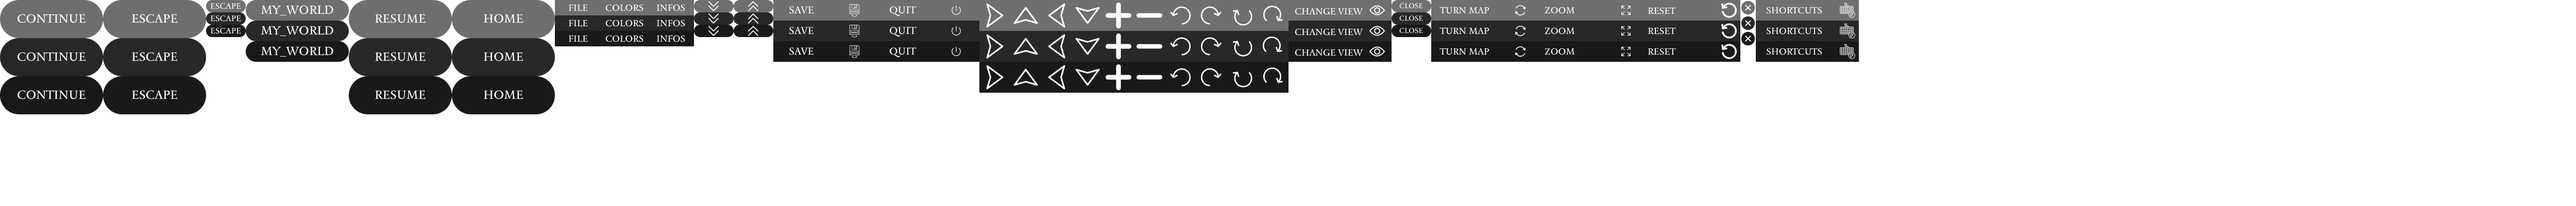
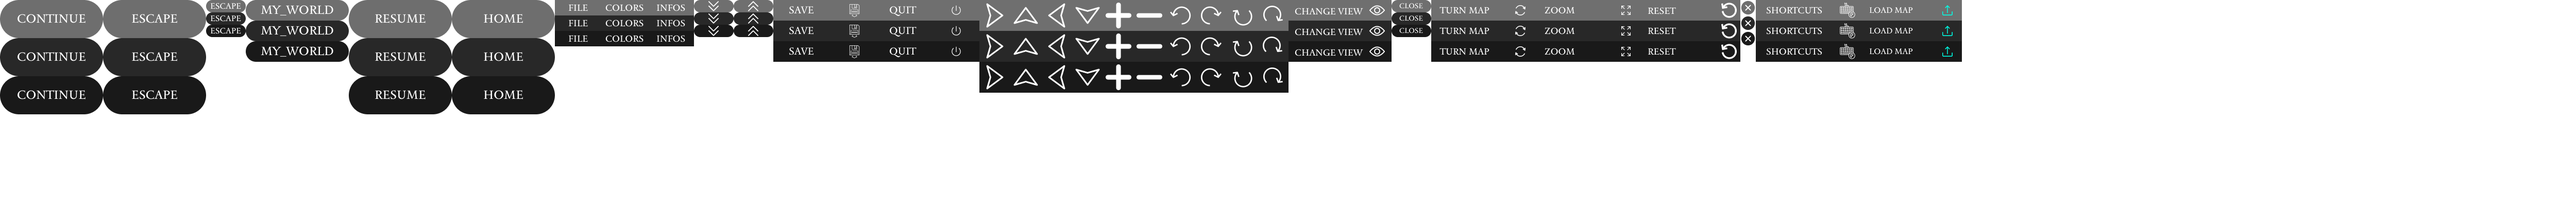
button for load added

Changed region(s): [[0.7176, 0.0, 0.78, 0.3]]

diff --git a/sources/func_button.c b/sources/func_button.c
@@ -18,7 +18,7 @@ void fifth_part_button(window *wndw, options *opt, cursor *c, maps *m)
     opt->ar_btn[CLOSE_VIEW].params = 0;
     opt->ar_btn[CLOSE_VIEW].screen = 0;
     factory_button(opt, &open_turn, (sfIntRect){2778, 0, 200, 40},
-        (sfVector2f){140, 360});
+        (sfVector2f){140, 370});
     opt->ar_btn[OPEN_TURN].params = 0;
     opt->ar_btn[OPEN_TURN].screen = 0;
     factory_button(opt, &turn_left, (sfIntRect){2261, 0, 60, 60},
@@ -31,7 +31,7 @@ void fifth_part_button(window *wndw, options *opt, cursor *c, maps *m)
 void fourth_part_button(window *wndw, options *opt, cursor *c, maps *m)
 {
     factory_button(opt, &open_view, (sfIntRect){2501, 0, 200, 40},
-        (sfVector2f){140, 300});
+        (sfVector2f){140, 310});
     opt->ar_btn[OPEN_CHG_VIEW].params = 0;
     opt->ar_btn[OPEN_CHG_VIEW].screen = 0;
     factory_button(opt, &go_left, (sfIntRect){2021, 0, 60, 60},
@@ -55,8 +55,8 @@ void third_part_button(window *wndw, options *opt, cursor *c, maps *m)
         (sfVector2f){201, 62});
     opt->ar_btn[OPEN_PARAMS].params = 1;
     opt->ar_btn[OPEN_PARAMS].screen = 0;
-    factory_button(opt, &go_home, (sfIntRect) {1501, 0, 200, 40},
-                   (sfVector2f) {140, 200});
+    factory_button(opt, &start_save, (sfIntRect) {1501, 0, 200, 40},
+                   (sfVector2f) {140, 190});
     opt->ar_btn[SAVE_FILE].params = 0;
     opt->ar_btn[SAVE_FILE].screen = 0;
     factory_button(opt, &quit_button, (sfIntRect) {1701, 0, 200, 40},
@@ -94,7 +94,7 @@ void second_part_button(window *wndw, options *opt, cursor *c, maps *m)
 void linked_button(options *opt, window *wndw, cursor *c, maps *m)
 {
     opt->t = sfTexture_createFromFile("ressources/buttons.png", NULL);
-    opt->ar_btn = malloc(sizeof(button) * 30);
+    opt->ar_btn = malloc(sizeof(button) * 31);
     opt->len_button = 0;
     factory_button(opt, &continue_button, (sfIntRect){0, 0, 200, 74},
                    (sfVector2f){865, 700});

diff --git a/sources/part_func_button.c b/sources/part_func_button.c
@@ -7,10 +7,18 @@
 
 #include "../includes/map.h"
 
+void nine_part_button(window *wndw, options *opt, cursor *c, maps *m)
+{
+    factory_button(opt, &start_load, (sfIntRect){3608, 0, 200, 40},
+        (sfVector2f){140, 250});
+    opt->ar_btn[LOAD_MAP].params = 0;
+    opt->ar_btn[LOAD_MAP].screen = 0;
+}
+
 void eight_part_button(window *wndw, options *opt, cursor *c, maps *m)
 {
     factory_button(opt, &reset_button, (sfIntRect){3178, 0, 200, 40},
-        (sfVector2f){140, 480});
+        (sfVector2f){140, 490});
     opt->ar_btn[RESET_MAP].params = 0;
     opt->ar_btn[RESET_MAP].screen = 0;
     factory_button(opt, &open_shortcuts, (sfIntRect){3408, 0, 200, 40},
@@ -21,12 +29,13 @@ void eight_part_button(window *wndw, options *opt, cursor *c, maps *m)
         (sfVector2f){1300, 270});
     opt->ar_btn[CLOSE_SHORTCUTS].params = 0;
     opt->ar_btn[CLOSE_SHORTCUTS].screen = 0;
+    nine_part_button(wndw, opt, c, m);
 }
 
 void seven_part_button(window *wndw, options *opt, cursor *c, maps *m)
 {
     factory_button(opt, &open_zoom, (sfIntRect){2978, 0, 200, 40},
-        (sfVector2f){140, 420});
+        (sfVector2f){140, 430});
     opt->ar_btn[OPEN_ZOOM].params = 0;
     opt->ar_btn[OPEN_ZOOM].screen = 0;
     factory_button(opt, &zoom_in, (sfIntRect){2141, 0, 60, 60},

diff --git a/sources/cond_f_button.c b/sources/cond_f_button.c
@@ -18,6 +18,7 @@ int close_params(window *wndw, options *opt, cursor *c, maps *m)
     opt->ar_btn[RESET_MAP].params = 0;
     opt->ar_btn[SHORTCUTS].params = 0;
     opt->ar_btn[OPEN_PARAMS].params = 1;
+    opt->ar_btn[LOAD_MAP].params = 0;
     opt->mv = -1;
     return 0;
 }

diff --git a/sources/cond_fi_button.c b/sources/cond_fi_button.c
@@ -18,6 +18,7 @@ int open_p(window *wndw, options *opt)
     opt->ar_btn[RESET_MAP].params = 1;
     opt->ar_btn[SHORTCUTS].params = 1;
     opt->ar_btn[OPEN_PARAMS].params = 0;
+    opt->ar_btn[LOAD_MAP].params = 1;
     return 0;
 }
 

diff --git a/includes/map.h b/includes/map.h
@@ -139,6 +139,7 @@ typedef enum button_name {
     RESET_MAP,
     SHORTCUTS,
     CLOSE_SHORTCUTS,
+    LOAD_MAP,
 }buttton_name;
 
 typedef struct button{
